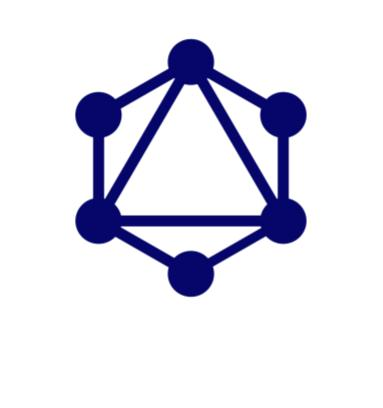
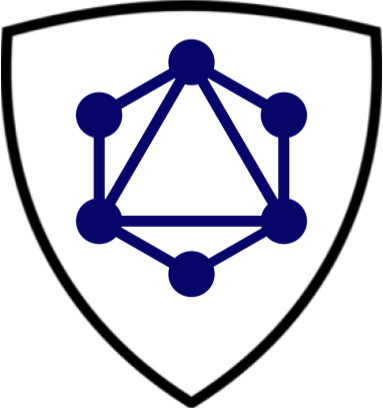
Revamped site UI

diff --git a/client/styles/app.scss b/client/styles/app.scss
@@ -1,39 +1,17 @@
-$light-blue: #a8d5ff;
+$light-blue: paleturquoise;
 $sapphire: #0b1354;
 $denim: #165baa;
-$deep-lilac: #a155b9;
+// $dark-turquoise: rgb(118, 213, 203);
+$dark-turquoise: rgb(175, 212, 238);
+$denimtwo: #165baaab;
+$deep-lilac: #6e55b9;
 $brilliant-rose: #f765a3;
 
 body {
   font-size: 20px;
   margin: 0;
   padding: 0;
-  font-family: 'Roboto', sans-serif;
-  color: $sapphire;
-  background-color: paleturquoise;
-  // background: radial-gradient(
-  //   circle,
-  //   $denim 25%,
-  //   $deep-lilac 50%,
-  //   $sapphire 60%
-  // );
-  // background: linear-gradient(
-  //   180deg,
-  //   rgba(247, 101, 163, 1) 0%,
-  //   rgba(22, 91, 170, 1) 40%,
-  //   rgba(11, 19, 84, 1) 81%
-  // );
-  // background: rgb(247, 101, 163);
-  // background: linear-gradient(
-  //   180deg,
-  //   rgba(247, 101, 163, 1) 4%,
-  //   rgba(22, 91, 170, 1) 15%,
-  //   rgba(11, 19, 84, 1) 54%
-  // );
-  // background: linear-gradient(
-  //   180deg,
-  //   rgba(161, 85, 185, 1) 25%,
-  //   rgba(22, 91, 170, 1) 50%,
-  //   rgba(11, 19, 84, 1) 75%
-  // );
+  font-family: 'Open Sans', 'Roboto', sans-serif;
+  color: rgb(229, 233, 244);
+  background-color: $sapphire;
 }

diff --git a/index.html b/index.html
@@ -14,6 +14,13 @@
       rel="stylesheet"
       href="https://fonts.googleapis.com/css2?family=Material+Symbols+Outlined:opsz,wght,FILL,GRAD@20..48,100..700,0..1,-50..200"
     />
+
+    <!-- open sans -->
+    <link rel="preconnect" href="https://fonts.googleapis.com">
+    <link rel="preconnect" href="https://fonts.gstatic.com" crossorigin>
+    <link href="https://fonts.googleapis.com/css2?family=Open+Sans:wght@300&display=swap" rel="stylesheet">
+
+
   </head>
 
   <body>

diff --git a/client/styles/navigation.scss b/client/styles/navigation.scss
@@ -1,11 +1,12 @@
 @import 'app';
 @import 'main';
 
-.navigation{
-    grid-area: nav;
-    display: flex;
-    justify-content: space-between;
-    align-items: center;
-    
-    padding: 0 24px;
+.navigation {
+  grid-area: nav;
+  display: flex;
+  justify-content: space-between;
+  align-items: center;
+  background-color: $denim;
+  padding: 0 24px;
+  //   position: top;
 }

diff --git a/client/styles/description.scss b/client/styles/description.scss
@@ -8,8 +8,7 @@
   align-items: center;
   justify-content: center;
   margin: 0 auto;
-  border: 1px dashed black;
+  // border: 1px dashed black;
   width: auto;
   border-radius: 10px;
-  background-color: $denim;
 }

diff --git a/client/styles/leftNavigation.scss b/client/styles/leftNavigation.scss
@@ -5,8 +5,9 @@
   display: flex;
   align-items: center;
   margin: 100px;
-
   img {
+    max-width: 50px;
+    max-height: 50px;
     &:hover {
       cursor: pointer;
     }

diff --git a/client/styles/shieldql.scss b/client/styles/shieldql.scss
@@ -11,5 +11,5 @@
   border: 1px solid black;
   border-radius: 0.5rem;
   border-width: 50%;
-  background-color: $denim;
+  background-color: $denimtwo;
 }
